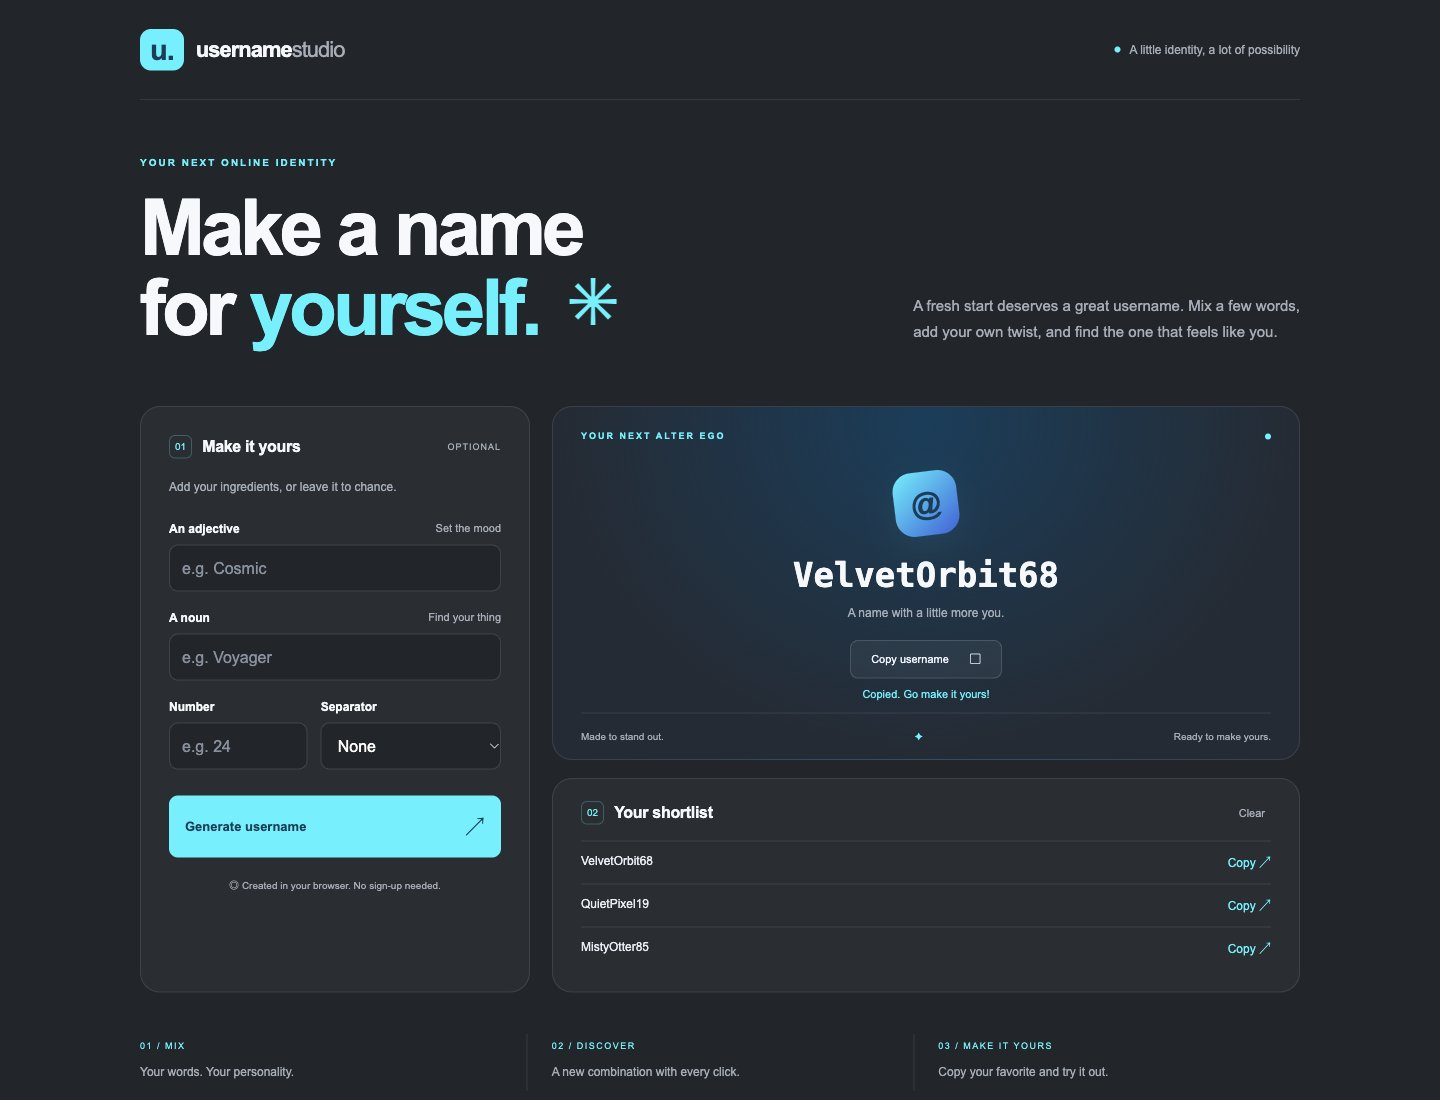
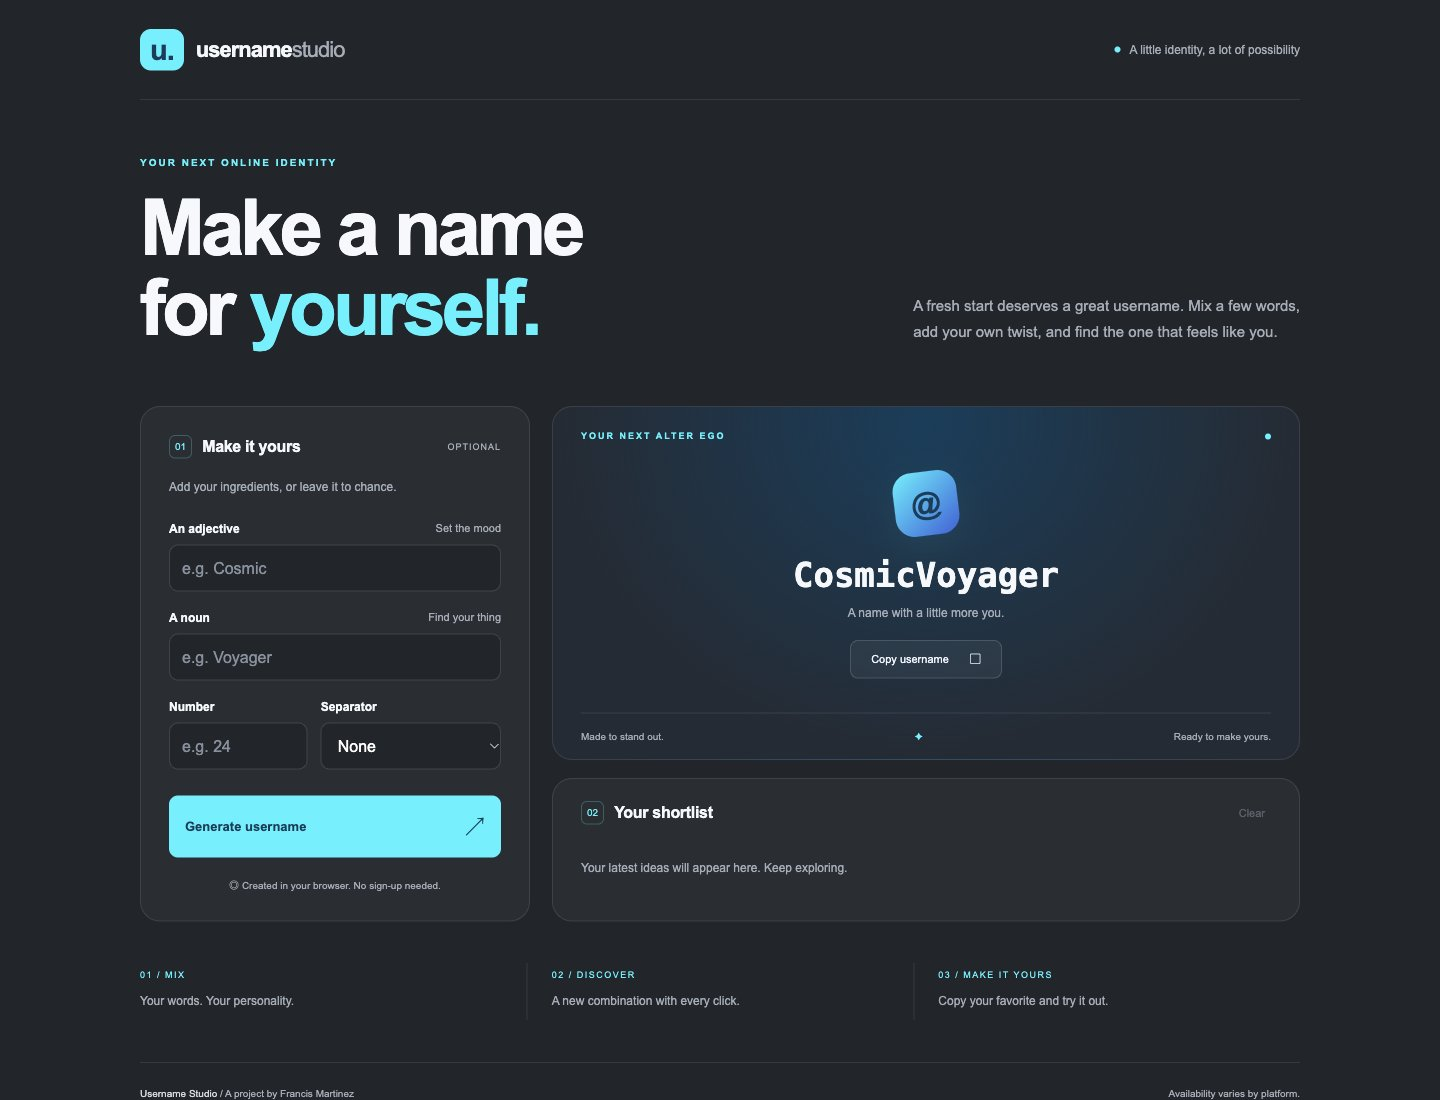
Remove decorative asterisk from Username Studio

diff --git a/style.css b/style.css
@@ -101,13 +101,6 @@ h1 em {
   font-style: normal;
   color: var(--cyan);
 }
-.spark {
-  display: inline-block;
-  font-size: 65px;
-  color: var(--cyan);
-  margin-left: 30px;
-  vertical-align: top;
-}
 .intro > p {
   color: var(--muted);
   font-size: 15px;
@@ -427,10 +420,6 @@ footer > span:last-child {
   }
   .intro h1 {
     font-size: 54px;
-  }
-  .spark {
-    font-size: 46px;
-    margin-left: 16px;
   }
   .intro > p {
     font-size: 14px;

diff --git a/index.html b/index.html
@@ -25,8 +25,7 @@
       <section class="intro">
         <div class="eyebrow">YOUR NEXT ONLINE IDENTITY</div>
         <h1>
-          Make a name<br />for <em>yourself.</em
-          ><span class="spark" aria-hidden="true">✳</span>
+          Make a name<br />for <em>yourself.</em>
         </h1>
         <p>
           A fresh start deserves a great username. Mix a few words,<br
